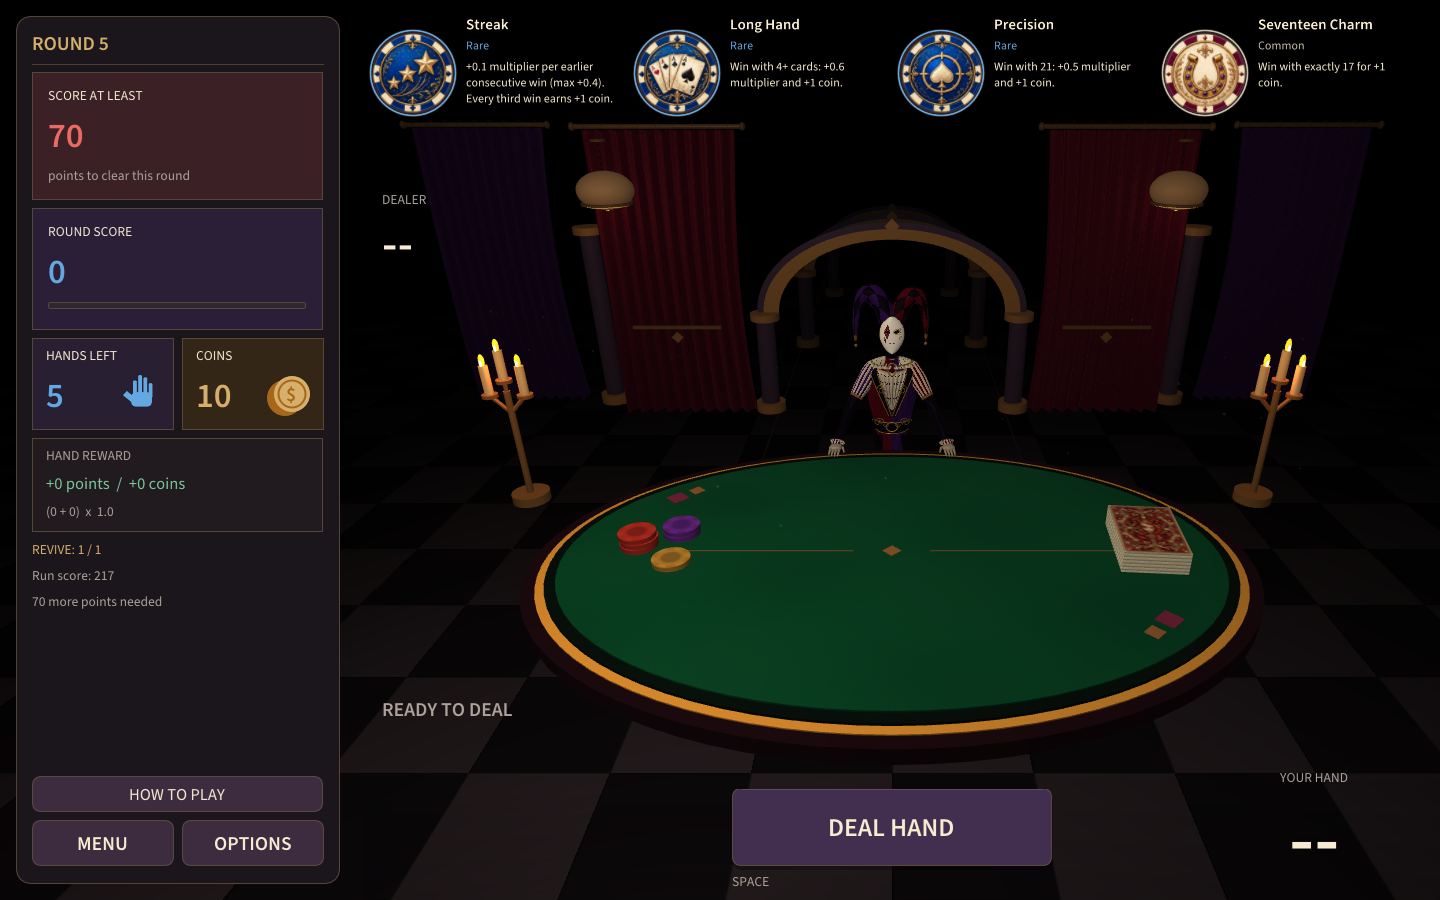
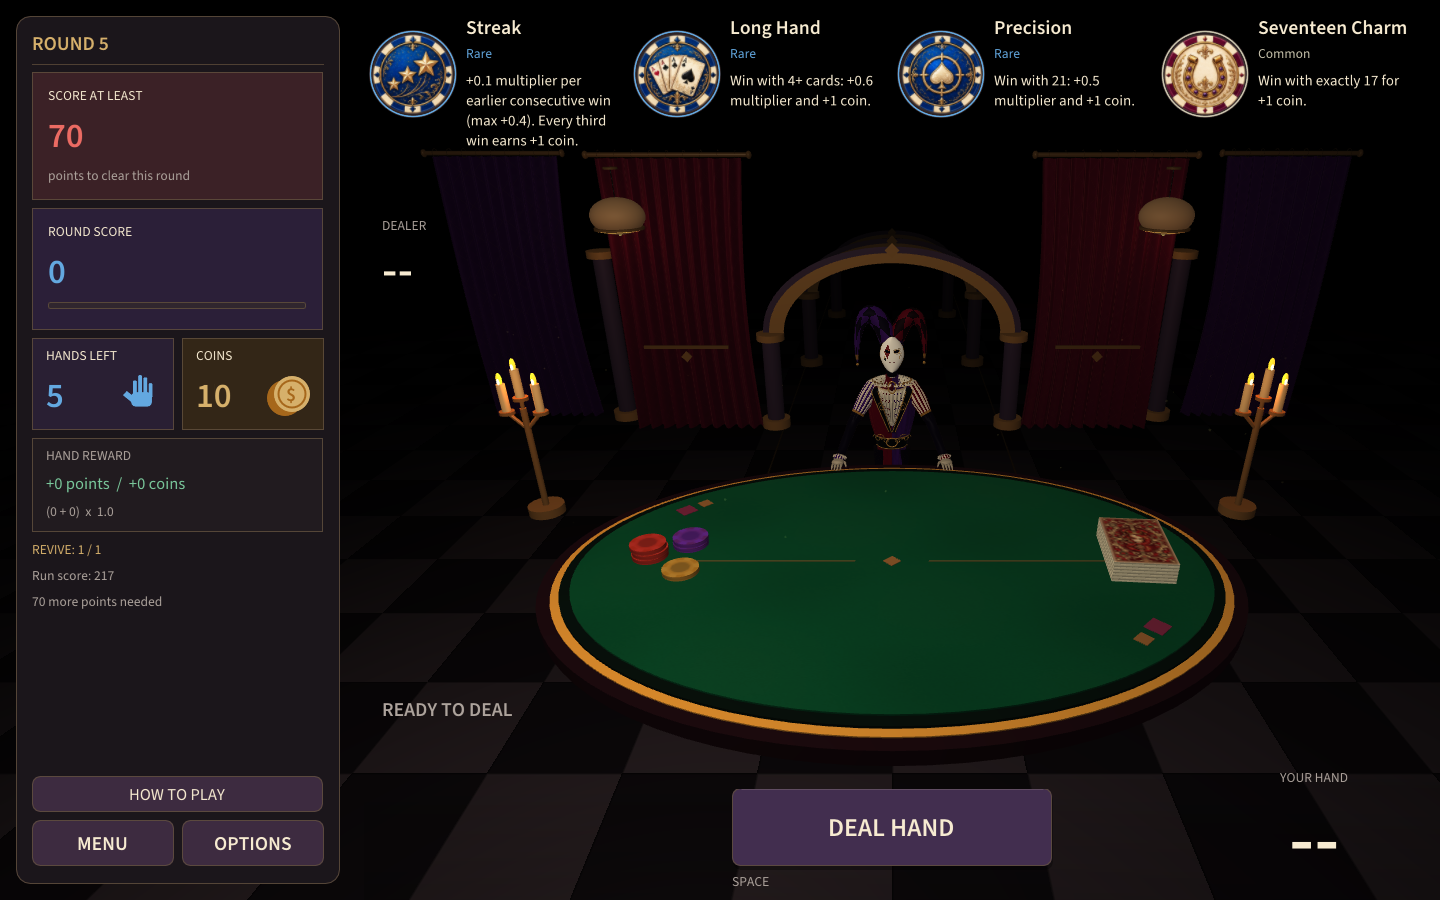
Enlarge relic labels and descriptions with responsive spacing

diff --git a/src/main.cpp b/src/main.cpp
@@ -625,12 +625,28 @@ struct TableLayout {
     float actionY;
 };
 
+struct RelicRowStyle {
+    float radius;
+    float nameSize;
+    float bodySize;
+    float raritySize;
+    float height;
+};
+
+RelicRowStyle relicRowStyle(float contentWidth) {
+    const float column=contentWidth/4;
+    if(column<235) return {38,22,18,16,208};
+    if(column<320) return {44,26,20,18,208};
+    return {44,28,22,18,192};
+}
+
 TableLayout tableLayout(ImVec2 display) {
     const float sidebar = std::clamp(display.x * .24f, 280.0f, 340.0f);
     const float contentX = sidebar + 24;
     const float actionY = display.y - 154;
-    const float boardY=display.y<800?170.0f:182.0f;
-    return {sidebar, contentX, display.x - contentX - 20, boardY, display.y - boardY - 110, actionY};
+    const float contentWidth=display.x-contentX-20;
+    const float boardY=relicRowStyle(contentWidth).height;
+    return {sidebar, contentX, contentWidth, boardY, display.y - boardY - 110, actionY};
 }
 
 void drawGameplayShading(const Session& session, const presentation::Presentation& timeline) {
@@ -642,10 +658,6 @@ void drawGameplayShading(const Session& session, const presentation::Presentatio
     constexpr ImU32 shade=IM_COL32(0,0,0,48),clear=IM_COL32(0,0,0,0);
     draw->AddRectFilledMultiColor({layout.contentX,0},{display.x,140},shade,shade,clear,clear);
     draw->AddRectFilledMultiColor({layout.contentX,display.y-140},display,clear,clear,shade,shade);
-}
-
-bool compactRelicRow(const TableLayout& layout, ImVec2 display) {
-    return display.y<800 || layout.contentWidth/4<235;
 }
 
 const char* ownedRelicDescription(const bj::RelicInfo& item, bool rescueSpent) {
@@ -675,22 +687,22 @@ WrappedRelicText wrapRelicWords(ImFont* font, float size, float width, const cha
 }
 
 void verifyRelicTextLayout(const Interface& ui, const TableLayout& layout, ImVec2 display) {
-    const bool compact=compactRelicRow(layout,display);
-    const float radius=compact?38.0f:44.0f;
-    const float textWidth=layout.contentWidth/4-radius*2-22;
-    const float nameSize=compact?18.0f:20.0f,bodySize=compact?14.0f:16.0f;
+    const auto style=relicRowStyle(layout.contentWidth);
+    const float textWidth=layout.contentWidth/4-style.radius*2-22;
+    const float nameSize=style.nameSize,bodySize=style.bodySize;
+    auto* bodyFont=ImGui::GetIO().FontDefault;
     float maxBottom=0,longestWord=0;
     const char* longest="";
     for(const auto& item:bj::relicCatalog()) {
         const float nameHeight=ui.button->CalcTextSizeA(nameSize,1000,textWidth,item.name).y;
         if(nameHeight>nameSize*2+.5f) throw std::runtime_error(std::string("Relic name exceeds two lines: ")+item.name);
         for(const bool spent:{false,true}) {
-            const auto description=wrapRelicWords(ui.small,bodySize,textWidth,ownedRelicDescription(item,spent));
+            const auto description=wrapRelicWords(bodyFont,bodySize,textWidth,ownedRelicDescription(item,spent));
             if(description.longestWord>textWidth+.5f)
                 throw std::runtime_error(std::string("Relic description word exceeds column: ")+item.name);
             longestWord=std::max(longestWord,description.longestWord);
-            const float descriptionHeight=ui.small->CalcTextSizeA(bodySize,10000,0,description.text.c_str()).y;
-            const float bottom=14+nameHeight+3+bodySize+5+descriptionHeight;
+            const float descriptionHeight=bodyFont->CalcTextSizeA(bodySize,10000,0,description.text.c_str()).y;
+            const float bottom=14+nameHeight+4+style.raritySize+8+descriptionHeight;
             if(bottom>layout.boardY-6) throw std::runtime_error(std::string("Relic description exceeds row: ")+item.name);
             if(bottom>maxBottom) {maxBottom=bottom;longest=item.name;}
         }
@@ -735,9 +747,9 @@ void drawRelicStrip(const bj::Snapshot& state, const presentation::Presentation&
     beginPanel("##relics", {layout.contentX, 0}, {layout.contentWidth, layout.boardY}, true,
         ImGuiWindowFlags_NoScrollbar|ImGuiWindowFlags_NoScrollWithMouse);
     const float width=layout.contentWidth/4;
-    const bool compact=compactRelicRow(layout,ImGui::GetIO().DisplaySize);
-    const float radius=compact?38.0f:44.0f;
-    const float centerY=compact?67.0f:73.0f;
+    const auto style=relicRowStyle(layout.contentWidth);
+    const float radius=style.radius;
+    const float centerY=radius+30;
     for (int slot = 0; slot < 4; ++slot) {
         const auto origin=ImGui::GetWindowPos();
         auto* draw=ImGui::GetWindowDrawList();
@@ -772,16 +784,17 @@ void drawRelicStrip(const bj::Snapshot& state, const presentation::Presentation&
         drawChip(draw,center,radius,item,art,-.055f*session.relicHover[slot]+(reacting?pulse*.025f:0));
         const float textX=origin.x+slot*width+radius*2+14;
         const float textWidth=width-radius*2-22;
-        const float nameSize=compact?18.0f:20.0f,bodySize=compact?14.0f:16.0f;
+        const float nameSize=style.nameSize,bodySize=style.bodySize;
         const float nameY=origin.y+14;
         const float nameHeight=ui.button->CalcTextSizeA(nameSize,1000,textWidth,item.name).y;
         draw->AddText(ui.button,nameSize,{textX,nameY},ImGui::ColorConvertFloat4ToU32(cream),
             item.name,nullptr,textWidth);
-        const float rarityY=nameY+nameHeight+3;
-        draw->AddText(ui.small,bodySize,{textX,rarityY},ImGui::ColorConvertFloat4ToU32(rarityColor(item.rarity)),
+        const float rarityY=nameY+nameHeight+4;
+        draw->AddText(ui.small,style.raritySize,{textX,rarityY},ImGui::ColorConvertFloat4ToU32(rarityColor(item.rarity)),
             bj::rarityName(item.rarity));
-        const auto description=wrapRelicWords(ui.small,bodySize,textWidth,ownedRelicDescription(item,state.usedSecondChance));
-        draw->AddText(ui.small,bodySize,{textX,rarityY+bodySize+5},ImGui::ColorConvertFloat4ToU32(cream),
+        auto* bodyFont=ImGui::GetIO().FontDefault;
+        const auto description=wrapRelicWords(bodyFont,bodySize,textWidth,ownedRelicDescription(item,state.usedSecondChance));
+        draw->AddText(bodyFont,bodySize,{textX,rarityY+style.raritySize+8},ImGui::ColorConvertFloat4ToU32(cream),
             description.text.c_str());
         if(hovered && (ImGui::IsItemHovered(ImGuiHoveredFlags_DelayNormal) || ImGui::GetIO().NavVisible)) {
             ImGui::BeginTooltip();
@@ -806,7 +819,7 @@ void drawRelicStrip(const bj::Snapshot& state, const presentation::Presentation&
             if(effect->coins) bonuses.push_back("+"+std::to_string(effect->coins)+(effect->coins==1?" COIN":" COINS"));
             float widest=1;
             for(const auto& bonus:bonuses) widest=std::max(widest,ui.button->CalcTextSizeA(20,1000,0,bonus.c_str()).x);
-            const float size=std::min(compact?16.0f:18.0f,20*(radius*2+4)/widest);
+            const float size=std::min(20.0f,20*(radius*2+4)/widest);
             const float popupY=origin.y+centerY+radius+8-pulse*3;
             const auto ink=ImGui::ColorConvertFloat4ToU32({accent.x,accent.y,accent.z,.45f+.55f*pulse});
             for(std::size_t line=0;line<bonuses.size();++line) {
@@ -1676,8 +1689,8 @@ int main(int argc, char** argv) {
                     if(frame==146) io.AddMouseButtonEvent(0,false);
                 }
                 if(frame>340&&!session.menu&&!game.state().owned.empty()&&game.state().phase!=bj::Phase::Shop&&game.state().phase!=bj::Phase::RunLost) {
-                    const bool compact=compactRelicRow(table,io.DisplaySize);
-                    io.AddMousePosEvent(table.contentX+(compact?43.0f:49.0f),compact?67.0f:73.0f);
+                    const auto relicStyle=relicRowStyle(table.contentWidth);
+                    io.AddMousePosEvent(table.contentX+relicStyle.radius+5,relicStyle.radius+30);
                 }
                 if(frame>=160 && frame%20==0 && !session.menu && !timeline.busy() &&
                     game.state().phase!=bj::Phase::Shop && game.state().phase!=bj::Phase::RunLost)
